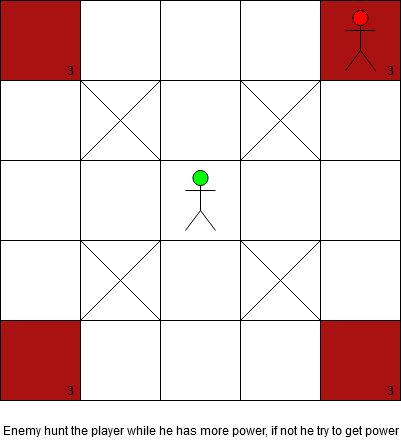
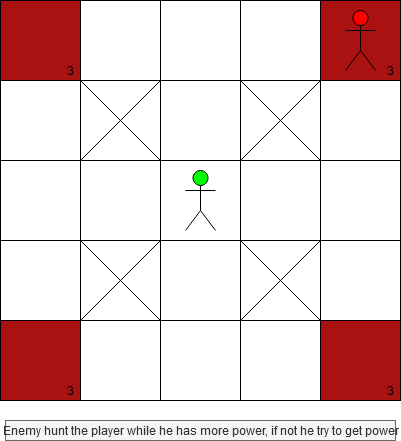
[QUALITY] Add a white background to the images dark texts

Changed region(s): [[0.0, 0.9433, 0.9875, 1.0]]

diff --git a/Documentations/GDD.md b/Documentations/GDD.md
@@ -52,6 +52,7 @@
 | V1.1 | 24/03/2021 | Add a rule for in game actions  | Change game rules for make it more easy for the player															| Matthias de Toffoli |
 | V1.2 | 04/08/2021 | Add a missing point			  | Add a missing skills for the character																			| Matthias de Toffoli |
 | V1.3 | 07/10/2021 | Add level designs				  | Add the 15 level's diagrams and the epilogue's one and update the LD Bricks										| Matthias de Toffoli |
+| V1.4 | 07/22/2021 | Add background to images text	  | Add a white background to the images dark texts																	| Matthias de Toffoli |
 
 ## Product Description
 * Pitch : It's a 2D mobile mind break game, you will conquer a square that will influence the adjacent squares for conquer them too. An opponent will do same. Every square on your side will give you power, if you have more power than your opponent you will can defeat him.

diff --git a/Documentations/TDD.md b/Documentations/TDD.md
@@ -87,6 +87,7 @@
 | V1.3 | 11/28/2020 | Change some game rules 									  | Change some game rules for make it more easy for the player														 | Matthias de Toffoli |
 | V1.4 | 04/08/2021 | Add a missing point										  | Add a missing skills for the character																			 | Matthias de Toffoli |
 | V1.5 | 04/14/2021 | Update diagrams											  | Update some diagrams and add Core folder's diagram																 | Matthias de Toffoli |
+| V1.6 | 07/22/2021 | Add background to images text	  							  | Add a white background to the images dark texts															   		 | Matthias de Toffoli |
 
 ## About it
 ### Why this ?
